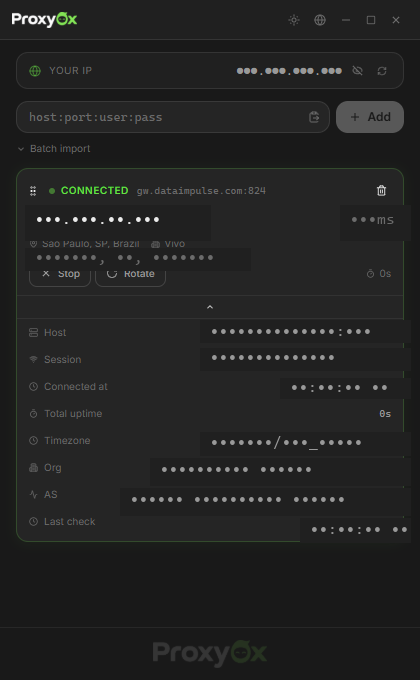
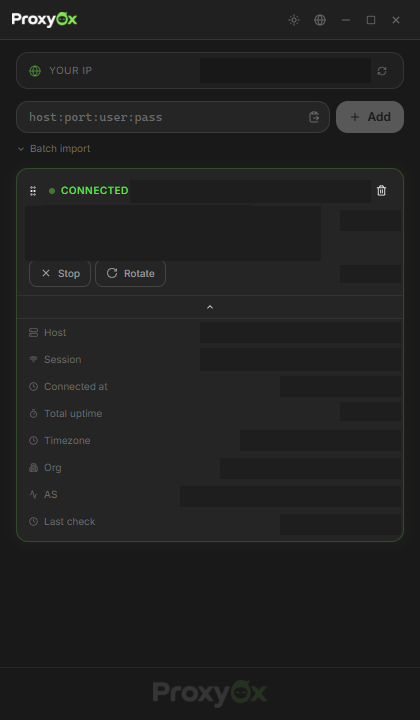
retake screenshots with proper censoring, add 1x3 grid layout
- Fresh screenshots from running app (dark theme only)
- All sensitive data fully censored (IP, host, session, location, ISP, etc.)
- Added language menu screenshot back
- README uses 1x3 grid layout for all 3 screenshots

diff --git a/README.md b/README.md
@@ -19,8 +19,9 @@ Lightweight Windows proxy manager widget. Add residential proxies, rotate IPs by
 ## Screenshots
 
 <p align="center">
-  <img src="assets/screenshots/connected.png" alt="Connected proxy with geolocation" width="380">
-  <img src="assets/screenshots/dark-empty.png" alt="Dark theme — proxy card expanded" width="380">
+  <img src="assets/screenshots/connected.png" alt="Connected proxy with geolocation" width="270">
+  <img src="assets/screenshots/dark-empty.png" alt="Disconnected proxy card" width="270">
+  <img src="assets/screenshots/language-menu.png" alt="Language selector with 16 languages" width="270">
 </p>
 
 ## Downloads
